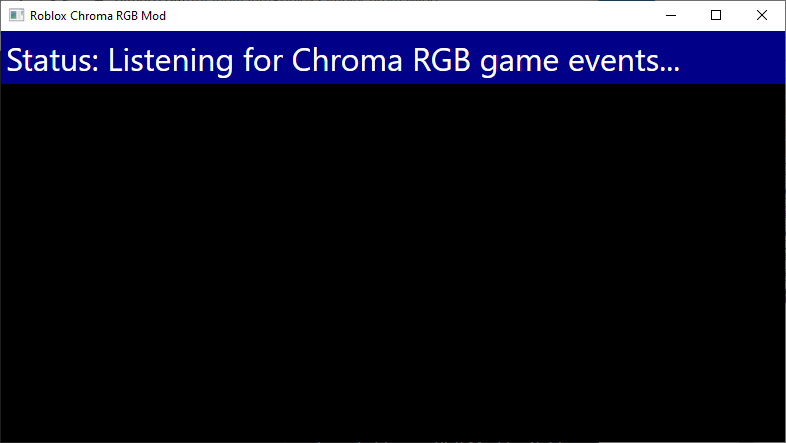
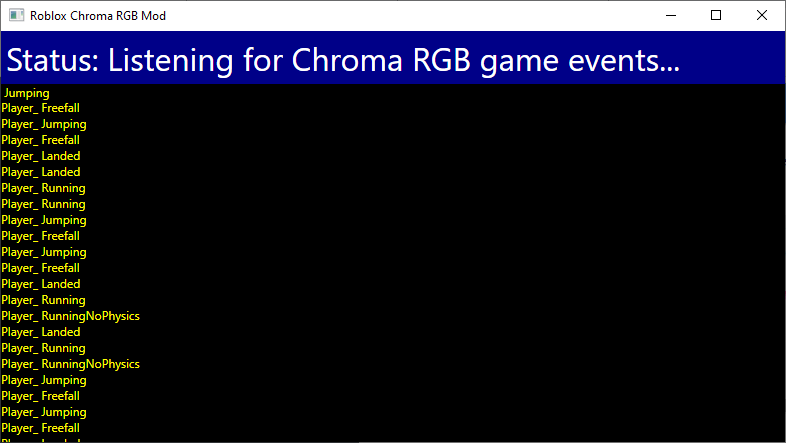
Added displaying player state

Changed region(s): [[0.0, 0.2054, 0.1832, 0.9977], [0.458, 0.9977, 0.7634, 1.0]]

diff --git a/WPF_RobloxChromaMod/MainWindow.xaml b/WPF_RobloxChromaMod/MainWindow.xaml
@@ -8,5 +8,6 @@
         Title="Roblox Chroma RGB Mod" Height="450" Width="800">
     <StackPanel Background="#000">
         <Label FontSize="32" Background="#008" Foreground="#FFF">Status: Listening for Chroma RGB game events...</Label>
+        <TextBlock Name="_mTextStatus" TextWrapping="Wrap" FontSize="12" Foreground="#FF0"></TextBlock>
     </StackPanel>
 </Window>

diff --git a/WPF_RobloxChromaMod/MainWindow.xaml.cs b/WPF_RobloxChromaMod/MainWindow.xaml.cs
@@ -2,9 +2,10 @@
 using System;
 using System.Collections.Generic;
 using System.IO;
+using System.Text;
 using System.Threading;
 using System.Windows;
-
+using System.Windows.Threading;
 
 namespace WPF_RobloxChromaMod
 {
@@ -15,36 +16,61 @@ namespace WPF_RobloxChromaMod
     {
         bool _mWaitForExit = true;
 
+        StringBuilder _mStringBuilder = null;
+
+        DispatcherTimer _mTimer = null;
+
         public MainWindow()
         {
             InitializeComponent();
+
+            _mStringBuilder = new StringBuilder();
 
             int _mResult = ChromaAnimationAPI.Init();
             switch (_mResult)
             {
                 case RazerErrors.RZRESULT_DLL_NOT_FOUND:
-                    Console.Error.WriteLine("Chroma DLL is not found! {0}", RazerErrors.GetResultString(_mResult));
+                    _mTextStatus.Text = string.Format("Chroma DLL is not found! {0}", RazerErrors.GetResultString(_mResult));
                     return;
                 case RazerErrors.RZRESULT_DLL_INVALID_SIGNATURE:
-                    Console.Error.WriteLine("Chroma DLL has an invalid signature! {0}", RazerErrors.GetResultString(_mResult));
+                    _mTextStatus.Text = string.Format("Chroma DLL has an invalid signature! {0}", RazerErrors.GetResultString(_mResult));
                     return;
                 case RazerErrors.RZRESULT_SUCCESS:
+                    _mStringBuilder.AppendLine("Chroma RGB Initialized.");
                     break;
                 default:
-                    Console.Error.WriteLine("Failed to initialize Chroma! {0}", RazerErrors.GetResultString(_mResult));
+                    _mTextStatus.Text = string.Format("Failed to initialize Chroma! {0}", RazerErrors.GetResultString(_mResult));
                     return;
             }
+
+            _mTextStatus.Text = _mStringBuilder.ToString();
 
             ThreadStart ts = new ThreadStart(LogWorker);
             Thread thread = new Thread(ts);
             thread.Start();
 
+            _mTimer = new DispatcherTimer();
+            _mTimer.Interval = TimeSpan.FromSeconds(1);
+            _mTimer.Tick += Timer_Tick;
+            _mTimer.Start();
+
+
             Closed += MainWindow_Closed;
+        }
+
+        private void Timer_Tick(object sender, EventArgs e)
+        {
+            if (_mStringBuilder.Length > 512)
+            {
+                _mStringBuilder.Remove(0, 512);
+            }
+            _mTextStatus.Text = _mStringBuilder.ToString();
         }
 
         private void MainWindow_Closed(object sender, EventArgs e)
         {
             _mWaitForExit = false;
+            _mTimer.Tick -= Timer_Tick;
         }
 
         private void LogWorker()
@@ -124,6 +150,7 @@ namespace WPF_RobloxChromaMod
             {
                 return;
             }
+            _mStringBuilder.AppendLine(effect);
             switch (effect)
             {
                 case "BtnEffect1":

diff --git a/README.md b/README.md
@@ -89,6 +89,8 @@ script.Parent.MouseButton2Click:Connect(rightClick)
 
 Print player state events so that Chroma can react to changes. [StarterPlayer/StarterCharacterScripts/LocalScript.lua](StarterPlayer/StarterCharacterScripts/LocalScript.lua)
 
+![image_4](images/image_4.png)
+
 ```lua
 local character = script.Parent
 
@@ -101,7 +103,7 @@ humanoid.StateChanged:Connect(function(oldState, newState)
 	if (newState ~= nil and oldState ~= newState and newState ~= Enum.HumanoidStateType.None) then
 		local state = tostring(newState);
 		if (string.len(state) > tokenLength) then
-			local strState = string.sub(state, tokenLength)
+			local strState = string.sub(state, tokenLength + 1)
 			print ("ChromaRGB:", "Player_", strState);
 		end
 	end
